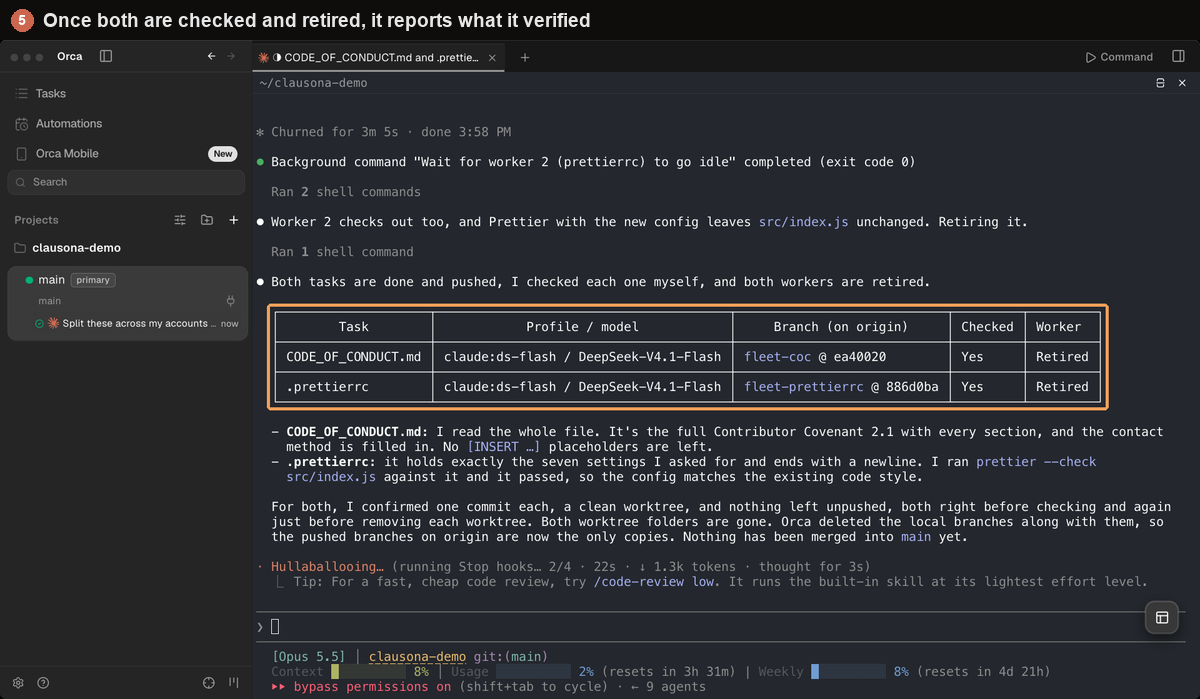
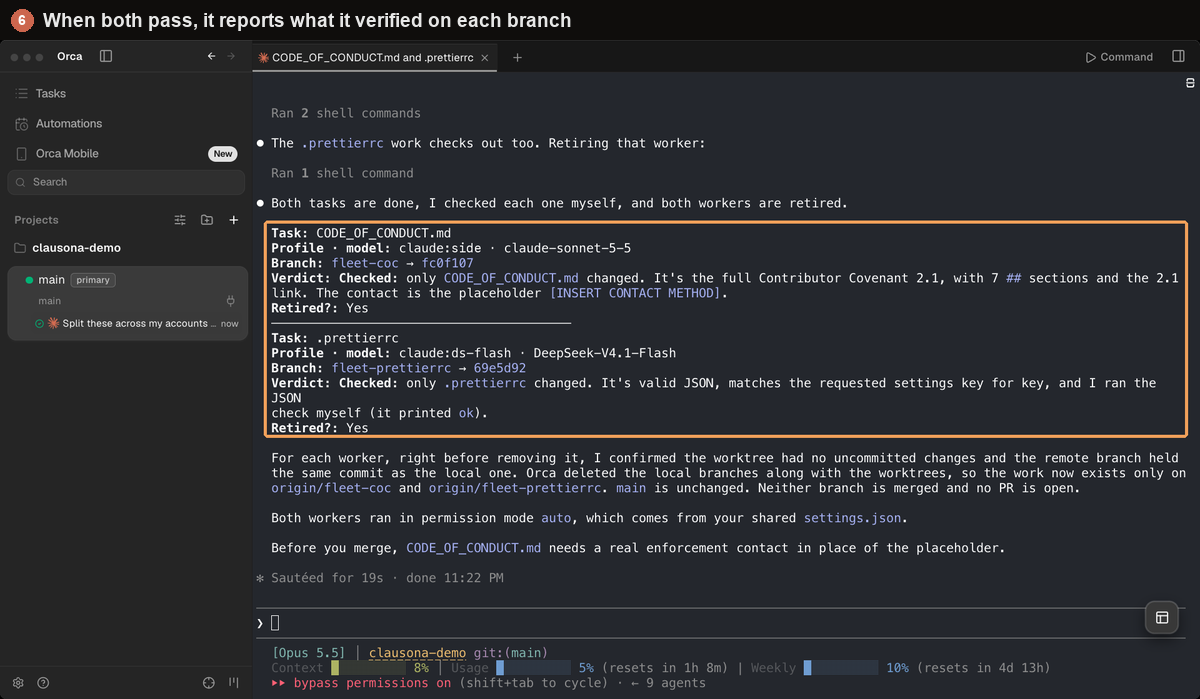
docs: fleet GIFs show workers on different accounts and models
Both GIFs are new real runs where the main session runs Opus on its own account, one worker
runs Sonnet on a second Claude account and the other runs DeepSeek through an API. They show
each worker as its own session in the runner, the main session checking each branch (and in
herdr sending a follow-up when the worker's CONTRIBUTING.md had a wrong step), and the final
report. The second account's profile name is shown as "side", the guides' example name.
The guides' example requests now route a task to a lighter model.

diff --git a/site/guides/parallel-agents-in-orca/index.html b/site/guides/parallel-agents-in-orca/index.html
@@ -116,13 +116,13 @@
         <p>Install the <code>orca-fleet</code> plugin. It brings <code>fleet-core</code>, the rules all the fleet plugins share, with it:</p>
 <pre data-copy><code>claude plugin marketplace add larcane97/clausona
 claude plugin install orca-fleet@clausona</code></pre>
-        <p>Then, in an Orca terminal, ask Claude Code something like "Split these across my accounts in Orca: add a CODE_OF_CONDUCT.md, and add a .prettierrc. Use DeepSeek for both."</p>
+        <p>Then, in an Orca terminal, ask Claude Code something like "Split these across my accounts in Orca: write a CODE_OF_CONDUCT.md with Sonnet on claude:side, and add a .prettierrc on DeepSeek."</p>
         <p>It plans the work and starts a worker per task in its own Orca worktree, on the account each one should use. It checks what comes back before it cleans up.</p>
       </div>
 
       <figure class="figure">
-        <img class="demo" src="../../assets/orca-fleet.gif" width="1200" height="699" loading="lazy" alt="A main Claude Code session in Orca opens a worktree per task, named for the task and its clausona profile, runs both workers on DeepSeek, then checks each branch and removes the worktrees.">
-        <figcaption>A real run, sped up. Each worker is an Orca worktree named after its task and profile, and the main session checks each branch before it removes the worktree.</figcaption>
+        <img class="demo" src="../../assets/orca-fleet.gif" width="1200" height="699" loading="lazy" alt="A main Claude Code session in Orca, on Opus with its own account, opens a worktree per task named for the account it runs on, one on Sonnet with a second Claude account and one on DeepSeek through an API, then checks each branch and removes the worktrees.">
+        <figcaption>A real run, sped up. Each worker is an Orca worktree named after its task and account: one runs Sonnet on a second account, the other DeepSeek through an API. The main session checks each branch before it removes the worktree.</figcaption>
       </figure>
 
       <h2 id="see">What you see in Orca</h2>

diff --git a/site/guides/parallel-agents-in-herdr/index.html b/site/guides/parallel-agents-in-herdr/index.html
@@ -116,13 +116,13 @@
         <p>Install the <code>herdr-fleet</code> plugin. It brings <code>fleet-core</code>, the rules all the fleet plugins share, with it:</p>
 <pre data-copy><code>claude plugin marketplace add larcane97/clausona
 claude plugin install herdr-fleet@clausona</code></pre>
-        <p>Then, in a herdr pane, ask Claude Code something like "Split these across my accounts in herdr: add a CONTRIBUTING.md, and add an .editorconfig."</p>
+        <p>Then, in a herdr pane, ask Claude Code something like "Split these across my accounts in herdr: write a CONTRIBUTING.md with Sonnet on claude:side, and add an .editorconfig on DeepSeek."</p>
         <p>It plans the work and starts a worker pane per task, on the account each one should use. It checks what comes back before it cleans up.</p>
       </div>
 
       <figure class="figure">
-        <img class="demo" src="../../assets/herdr-fleet.gif" width="1200" height="820" loading="lazy" alt="A main Claude Code session in herdr opens a worktree per task, starts both workers on a DeepSeek profile, then checks each branch and removes the worktrees.">
-        <figcaption>A real run, sped up. The main session runs on its own account and both workers run on DeepSeek. The main session checks each branch before it removes the worktree.</figcaption>
+        <img class="demo" src="../../assets/herdr-fleet.gif" width="1200" height="820" loading="lazy" alt="A main Claude Code session in herdr, on Opus with its own account, starts one worker on Sonnet with a second Claude account and one on DeepSeek through an API, each in its own worktree and pane, then checks each branch, sends a follow-up where needed and removes the worktrees.">
+        <figcaption>A real run, sped up. The main session runs Opus on its own account. One worker runs Sonnet on a second account and the other runs DeepSeek through an API, and the main session checks each branch before it removes the worktree.</figcaption>
       </figure>
 
       <h2 id="see">What you see in herdr</h2>

diff --git a/docs/usecases/orca-fleet.md b/docs/usecases/orca-fleet.md
@@ -1,6 +1,6 @@
 # Run an Orca fleet across your accounts
 
-![A main Claude Code session in Orca opens a worktree per task, named for its task and clausona profile, then checks each branch and removes the worktrees](../../assets/orca-fleet.gif)
+![A main Claude Code session in Orca, on Opus, opens a worktree per task named for its account, one on Sonnet with a second Claude account and one on DeepSeek through an API, then checks each branch and removes the worktrees](../../assets/orca-fleet.gif)
 
 [Orca](https://github.com/stablyai/orca) runs coding agents side by side, each in its own git
 worktree, and lists them in its sidebar. clausona gives each of those agents its own account.

diff --git a/docs/usecases/herdr-fleet.md b/docs/usecases/herdr-fleet.md
@@ -1,6 +1,6 @@
 # Run a herdr fleet across your accounts
 
-![A main Claude Code session in herdr starts two workers on DeepSeek, each in its own worktree, then checks each branch and removes the worktrees](../../assets/herdr-fleet.gif)
+![A main Claude Code session in herdr, on Opus, starts one worker on Sonnet with a second Claude account and one on DeepSeek through an API, then checks each branch and removes the worktrees](../../assets/herdr-fleet.gif)
 
 [herdr](https://github.com/ogulcancelik/herdr) keeps coding agents running in terminal panes and
 shows each one's state in its sidebar. clausona gives each of those agents its own account. With
